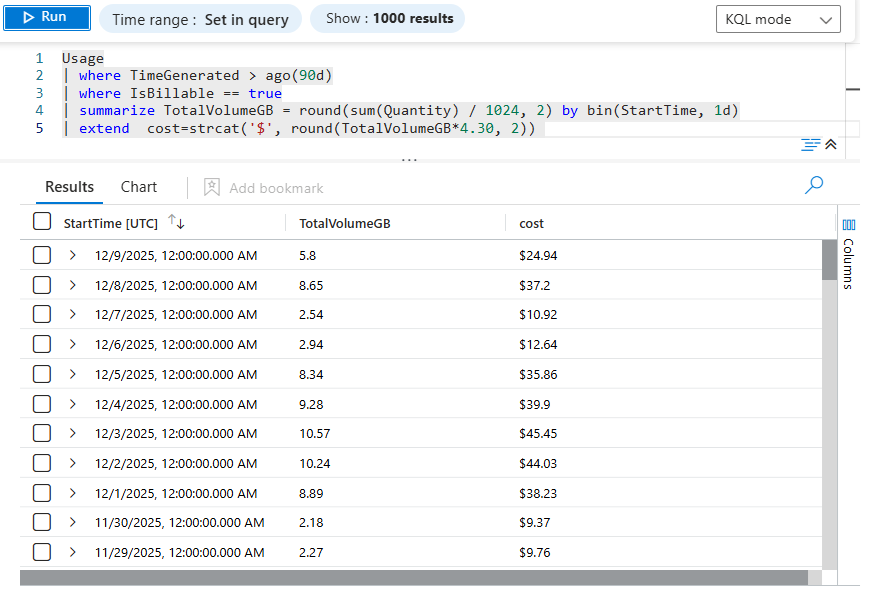
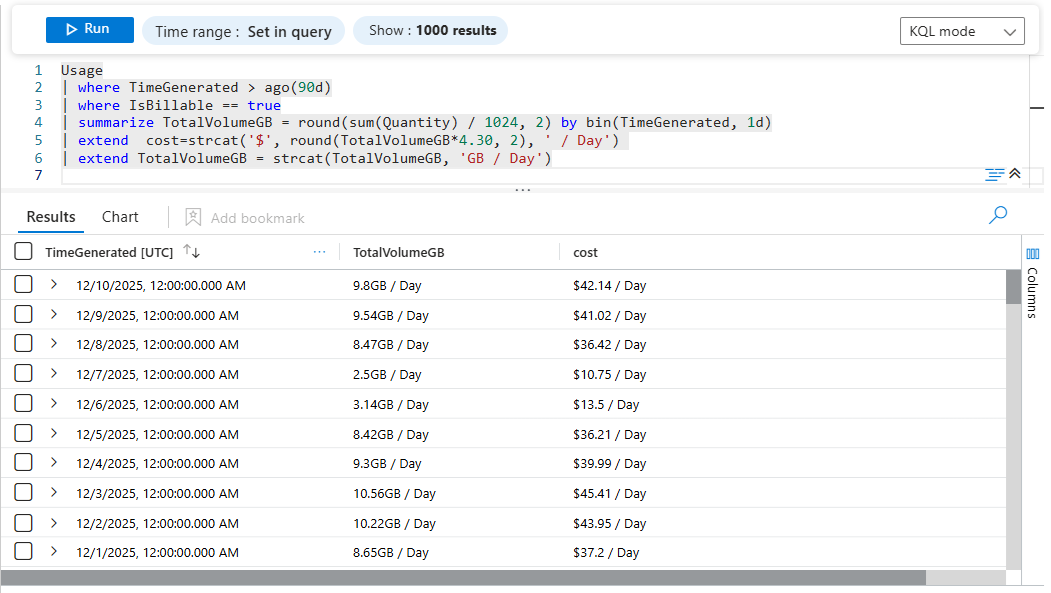
massive push

diff --git a/_posts/💡-Track-&-Price-Your-Microsoft-Sentinel-Ingest-Costs-—-KQL-Tip-of-the-Week.md b/_posts/💡-Track-&-Price-Your-Microsoft-Sentinel-Ingest-Costs-—-KQL-Tip-of-the-Week.md
@@ -5,7 +5,6 @@ We’re going to look at two versions of the same query:
 
 1. **Query 1** – “Show me billable GB per day, by solution, as a chart.”
 2. **Query 2** – “Roll it up per day, in GB and dollars.”
-3. **Query 3** – “Dress it up and make it look good with `round()` and `strcat()`.”
 
 <br/><br/>
 
@@ -16,13 +15,11 @@ We’re going to look at two versions of the same query:
 # Query 1 – Billable GB per Day, by Solution (Column Chart)
 
 ```kql
-// Query 1 - This is great for checking out your billable ingest patterns over the past quarter for QBRs etc. 
-
-Usage                                                                               // <--Query the Usage table
-| where TimeGenerated > ago(90d)                                                    // <--Query the last 90 days
-| where IsBillable == true                                                          // <--Only include 'billable' data
-| summarize TotalVolumeGB = sum(Quantity) / 1000 by bin(TimeGenerated, 1d), Solution    // <--Chop it up into GB / Day
-| render timechart                                                                // <--Graph the results
+Usage
+| where TimeGenerated > ago(90d)
+| where IsBillable == true
+| summarize TotalVolumeGB = sum(Quantity) / 1000 by bin(TimeGenerated, 1d), Solution
+| render timechart
 ```
 <br/>
 
@@ -109,142 +106,170 @@ Once you find a spike, the next question is always:
 
 > “Okay, but how much is that **in dollars**?” 💸
 
-Let’s look at the upgraded version:
+Let’s look at the upgraded query:
 
 ```kql
-// Query 2 - The below query will return the total billable GB and incurred cost per day. 
-
-Usage                                                                                // <--Query the Usage table
-| where TimeGenerated > ago(90d)                                                     // <--Query the last 90 days
-| where IsBillable == true                                                           // <--Only include 'billable' data
-| summarize TotalVolumeGB = round(sum(Quantity) / 1024, 2) by TimeGenerated=bin(TimeGenerated, 1d)    // <--Group data into 1-day buckets and convert total ingested quantity into GB
-| extend CostUSD = round(TotalVolumeGB * 4.30, 2)                                   // <--Calculate daily cost by multiplying GB/day by your region’s $/GB rate and rounding to 2 decimals
+Usage
+| where TimeGenerated > ago(90d)
+| where IsBillable == true
+| summarize TotalVolumeGB = round(sum(Quantity) / 1024, 2) by TimeGenerated=bin(TimeGenerated, 1d)
+| extend CostUSD = round(TotalVolumeGB * 4.30, 2)
 
 ```
 
-<br/><br/>
+<br/>
 
 ![](/assets/img/KQL%20of%20the%20Week/1/CostPerDayGraph.png)
 
 <br/><br/><br/><br/>
 
-## What’s new vs Query 1?
+# What’s New Compared to Query 1?
 
-* We dropped `Solution` from the `summarize`
-   * Now we’re aggregating **total daily ingest** across all solutions.
-   * This gives us a nice, simple **“cost per day”** rollup.
+Query 1 broke down billable ingest per Solution, which is perfect for “what’s noisy?” analysis.
+Query 2 shifts gears: it gives you total ingest per day, rolled up across the entire workspace, plus a dollar cost for each day.
 
-* We switched from `/ 1000` to `/ 1024` and added `round(...)`
+Here’s what actually changed:
+- Solution was removed from the summarize
+- Instead of getting a bar per Solution per day, we now get one total per day.
+- This makes the output ideal for cost trending, budgeting, and forecasting.
+- Switched from / 1000 to / 1024, and added round()
+- Using 1024 MB = 1 GiB is more accurate for log volume math.
+- round(..., 2) keeps the numbers tidy and currency-friendly.
+- Added a cost column
 
-* We added a `cost` column that multiplies GB by a price per GB and formats it nicely.
+This lets you translate raw ingest volume into actual dollars, in-line with your workspace’s per-GB price. Let’s break down exactly what Query 2 is doing.
 
 <br/>
-
-Let’s break it down...
-
-<br/><br/>
 
 ### 1.) `summarize TotalVolumeGB = round(sum(Quantity) / 1024, 2) by bin(TimeGenerated, 1d)`
 
-We’re still using `Usage`, 90 days, and `IsBillable == true` — same idea as Query 1.
+The front half of the query stays familiar: same **Usage table**, same **90-day window**, same **IsBillable == true**.
 
-But now:
+But now the behavior changes: <br/>
+`| summarize TotalVolumeGB = round(sum(Quantity) / 1024, 2) by TimeGenerated=bin(TimeGenerated, 1d)`
+- `sum(Quantity)` – We still total all billable MB.
+- `/ 1024` – Converts MB → GiB with binary precision.
+- `round(..., 2)` – Ensures readable values (e.g., 135.42, not 135.41893721).
+- And instead of grouping by Solution, we group only by the date (`bin(TimeGenerated, 1d)`), producing one record per calendar day:
 
-* `sum(Quantity)` – Still summing MB.
-* `/ 1024` – This time we’re using **binary GB** (1024 MB = 1 GiB), which is more technically precise.
-* `round(..., 2)` – We round to **2 decimal places** so you don’t end up with insane precision like `123.4567890123`.
+![](/assets/img/KQL%20of%20the%20Week/1/noChart3.png)
 
-And we group only by `bin(TimeGenerated, 1d)` (no more `Solution`), so we get one row per day:
-
-| TimeGenerated  | TotalVolumeGB |
-| ---------- | ------------- |
-| 2025-09-01 | 135.42        |
-| 2025-09-02 | 118.03        |
-| ...        | ...           |
-
-This is your **daily billable volume** in GB.
+This gives you a clean daily total billable volume.
 
 <br/><br/>
 
-### 2.) `| extend cost = strcat('$', round(TotalVolumeGB * 4.30, 2))`
+### 2.) | extend CostUSD = round(TotalVolumeGB * 4.30, 2)
 
-This is where we turn GB into dollars:
+Now we turn those GB into real money:
 
-* `TotalVolumeGB * 4.30` – We assume a price of **$4.30 per GB** (this is the cost per GB on the pay-as-you-go commitment tier for the Eastern US region, you can find your cost per GB on [Microsoft's offical pricing page for Sentinel](https://www.microsoft.com/en-us/security/pricing/microsoft-sentinel/?msockid=2ae8ebcef0f5615a2c3bfed2f1326064)).
+- `TotalVolumeGB * 4.30` – Multiplies by the per-GB price (e.g., $4.30/GB for East US on the Pay-As-You-Go commitment tier).
+  - 💲Swap 4.30 with your workspace’s actual price from [Microsoft’s Sentinel pricing page](https://www.microsoft.com/en-us/security/pricing/microsoft-sentinel/?msockid=2ae8ebcef0f5615a2c3bfed2f1326064).
 
-  * You should replace `4.30` with your actual Sentinel / workspace ingestion rate.
-* `round(..., 2)` – Round the result to 2 decimal places (normal currency formatting).
-* `strcat('$', ...)` – Prepend a `$` so it reads like `"$512.78"` instead of just `512.78`.
-
-<br/><br/>
-
-End result:
-
-| TimeGenerated  | TotalVolumeGB | cost    |
-| ---------- | ------------- | ------- |
-| 2025-09-01 | 135.42        | $582.31 |
-| 2025-09-02 | 118.03        | $507.53 |
-| ...        | ...           | ...     |
-
-<br/><br/>
-
-You now have a **simple, daily cost breakdown** that you can:
-
-* Export to CSV / Excel for finance 📊
-* Drop into a QBR deck 📈
-* Use to justify:
-
-  * Turning off noisy logs
-  * Changing retention
-  * Moving certain sources to cheaper storage
-
-If you want, you can still add back `render columnchart` at the end:
-
-```kql
-| render columnchart
-```
-
-This will give you a nice **“Cost per day”** chart.
-
-<br/><br/>
-
-## When to Use Each Version
-
-* **Query 1 – Visual, by Solution**
-
-  * Quick QBR visuals
-  * “Which solution is killing me?” analysis
-  * Great starting point for hunting noisy connectors or tables
+- `round(..., 2)` – Standard currency rounding to the second decimal place. Replace 2 with 3 to include three decimal places in your results, etc.
 
 <br/>
 
-![](/assets/img/KQL%20of%20the%20Week/1/Pie.png)
+You now have a simple, finance-friendly daily ledger of your Sentinel costs — perfect for:
 
+- CSV/Excel exports
+- Monthly reporting
+- QBR deck visuals
+- Cost justification (filter noisy logs, reduce retention, move data to cheaper tiers)
 
-<br/><br/>
-
-* **Query 2 & 3 – Daily Total + Cost**
-
-  * Budgeting / forecasting
-  * “What did we spend this month?” conversations
-  * Feeding into reports, dashboards, or cost management workflows
-
-<br/>
-
-![](/assets/img/KQL%20of%20the%20Week/1/noChart2.png) <br/>
-![](/assets/img/KQL%20of%20the%20Week/1/CostPerDayGraph.png)
-
-<br/>
+And if you want the classic visualization, just tack this on the end: `| render columnchart`
 
 <br/><br/>
 
 ![](/assets/img/KQL%20of%20the%20Week/1/NinjaQuery.png)
 
+<br/><br/><br/><br/>
+
+# Dress it up with `STRCAT()!` 
+`strcat()` in KQL concatenates multiple values into a single string. In this case, we’re taking a number, a currency symbol, and a suffix, and merging them into one formatted display value, transforming numeric columns into string-formatted display values. That’s key for converting data that had mathematical meaning into purely presentation-friendly text.. Let's break it down...
+
+<br/><br/>
+
+### 1. Formatting Daily Cost:
+`| extend cost = strcat('$', round(TotalVolumeGB * 4.30, 2), ' / Day')`
+
+What this line does:
+- Takes TotalVolumeGB (a number)
+- Multiplies it by your per-GB cost rate (4.30)
+- Rounds the result to 2 decimals
+- Converts the numeric cost into a string
+- Prepends a $
+- Appends " / Day"
+
+So: `52.80` becomes `$52.80 / Day`
+
+<br/><br/>
+
+### 2. Converting TotalVolumeGB to a Display-Ready String
+`| extend TotalVolumeGB = strcat(TotalVolumeGB, 'GB / Day')`
+
+What this line does
+- Takes your numeric TotalVolumeGB
+- Appends the string 'GB / Day'
+- Converts the entire result into a string
+
+So: `12.54` becomes: `12.54GB / Day`
+
+<br/><br/>
+
+### Why?
+
+Because you're shifting the output from analysis-ready to human-ready. Once the numbers are formatted, they're much easier to interpret in:
+
+- Workbooks & dashboards
+- Exports and email reports
+- SOC/Jupyter visuals
+- Blog posts 👋😁
+- Client-facing deliverables
+
+In other words, you're preparing the data for presentation, not additional math — a common pattern whenever the final output needs to be clean, readable, and report-ready.
+
+
+<br/><br/>
+
+> ### ⚠ But here’s the nuance...
+> After this line, cost is no longer numeric.
+> You can no longer:
+> - sum cost
+> - average cost
+> - chart cost as a numeric measure
+> - convert GB → MB
+> - re-round values
+> - bucket by numeric thresholds
+> - feed into a chart that expects a number
+>
+> This column becomes display-only 👀
+
+<br/><br/>
+
+### 🧠 Deeper Discussion: Why Format at the End?
+
+This pattern is excellent as long as you’re done calculating because _once a column becomes a **string** → it stops being useful for **math**_. If you ever need raw values again, formatting early could shoot you in the foot. 
+
+💡**Best practice tip:** If you need raw numeric values and formatted output: <br/>
+`| extend TotalVolumeGB_Formatted = strcat(TotalVolumeGB, 'GB / Day')` <br/>
+`| extend cost_Formatted = strcat('$', round(TotalVolumeGB * 4.30, 2), ' / Day')`
+
+This keeps:
+- TotalVolumeGB as float
+- cost as float
+- formatted versions as strings
+- things looking slick 😎
+
+![](/assets/img/KQL%20of%20the%20Week/1/noChart2.png)
+
+
+<br/><br/>
+
 Run these query now and compare the last 30, 60, and 90 days. If you see unexpected spikes, you’ve already found optimization opportunities. Don’t wait until Azure billing surprises you — measure it before it measures you.
 
 <br/><br/><br/><br/>
 
-# 🧠 Quick Note: Gibibytes vs Gigabytes
+# 📝 Quick Note: Gibibytes vs Gigabytes
 
 You’ll sometimes see data measured in gigabytes (GB) and other times in gibibytes (GiB) — and while they sound similar, they’re not the same.
 
@@ -296,25 +321,26 @@ And because the names sound similar, the confusion never totally went away — w
 <br/>
 
 # Bonus Discussion: StartTime vs TimeGenerated
+Some of my sharper readers may have noticed that a few screenshots used `StartTime` instead of `TimeGenerated`. That one’s on me. Just like my GB vs GiB rant, I occasionally commit crimes against precision — so here’s a clear breakdown of what these two fields actually represent, and why it matters for cost analysis. 
 
-### `TimeGenerated`
-
+`TimeGenerated`
 - This is the actual timestamp when the Usage record was logged.
 - Every row in Log Analytics has this column.
 - In the Usage table, it represents when the usage event was recorded.
 
 <br/>
 
-### `StartTime`
-
+`StartTime`
 - This column exists specifically in the Usage table.
 - It represents the start of the billing interval for that usage event.
 - It often aligns with internal computation windows used by Microsoft for calculating ingest cost, retention, or other metered operations.
 
+<br/>
+
 In other words:
 
-`TimeGenerated` = When the record was written
-`StartTime` = When the billable usage window began
+`TimeGenerated` = When the record was written. <br/>
+`StartTime` = When the billable usage window began.
 
 <br/>
 <br/>
@@ -324,15 +350,15 @@ The Usage table’s `StartTime` is _**not guaranteed** to align perfectly with t
 
 It may reflect:
 - the start of a metering window
-- ingestion processing boundaries
-- intermediate aggregation cycles inside the Microsoft billing engine
+- ingestion pipeline processing
+- hourly or sub-daily aggregation cycles inside the Microsoft billing engine
 
 That means:
 - Days may start at strange hours (e.g., 01:00 UTC or 17:00 UTC)
 - Some bins may appear empty or shifted
 - Visuals may look offset or inconsistent
 
-If you want the cleanest cost-per-day trend:
+🎯 For clean, calendar-based daily trends
 
 Use **TimeGenerated** with **bin(1d)**, like this: `StartTime = bin(TimeGenerated, 1d)`
 
@@ -344,16 +370,15 @@ This gives you:
 
 <br/>
 <br/>
-<br/>
-<br/>
 
-# 📚 Want to Go Deeper?
+# 📚 Thanks for Reading! 
+I hope this was as much fun reading as it was writing! 
 
 If this kind of automation gets your gears turning, check out my book:
 🎯 Ultimate Microsoft XDR for Full Spectrum Cyber Defense
  — published by Orange Education, available on Kindle and print. 👉 Get your copy here: [📘Ultimate Microsoft XDR for Full Spectrum Cyber Defense](https://a.co/d/0HNQ4qJ)
 
-⚡ It dives into Defender XDR, Sentinel, Entra ID, and Microsoft Graph automations just like this one — with real-world MSSP use cases and ready-to-run KQL + PowerShell examples.
+⚡ It dives into Defender XDR, Sentinel, Entra ID, and Microsoft automations just like this one — with real-world MSSP use cases and ready-to-run KQL + PowerShell examples.
 
 &#128591; Huge thanks to everyone who’s already picked up a copy — and if you’ve read it, a quick review on Amazon goes a long way!
 
